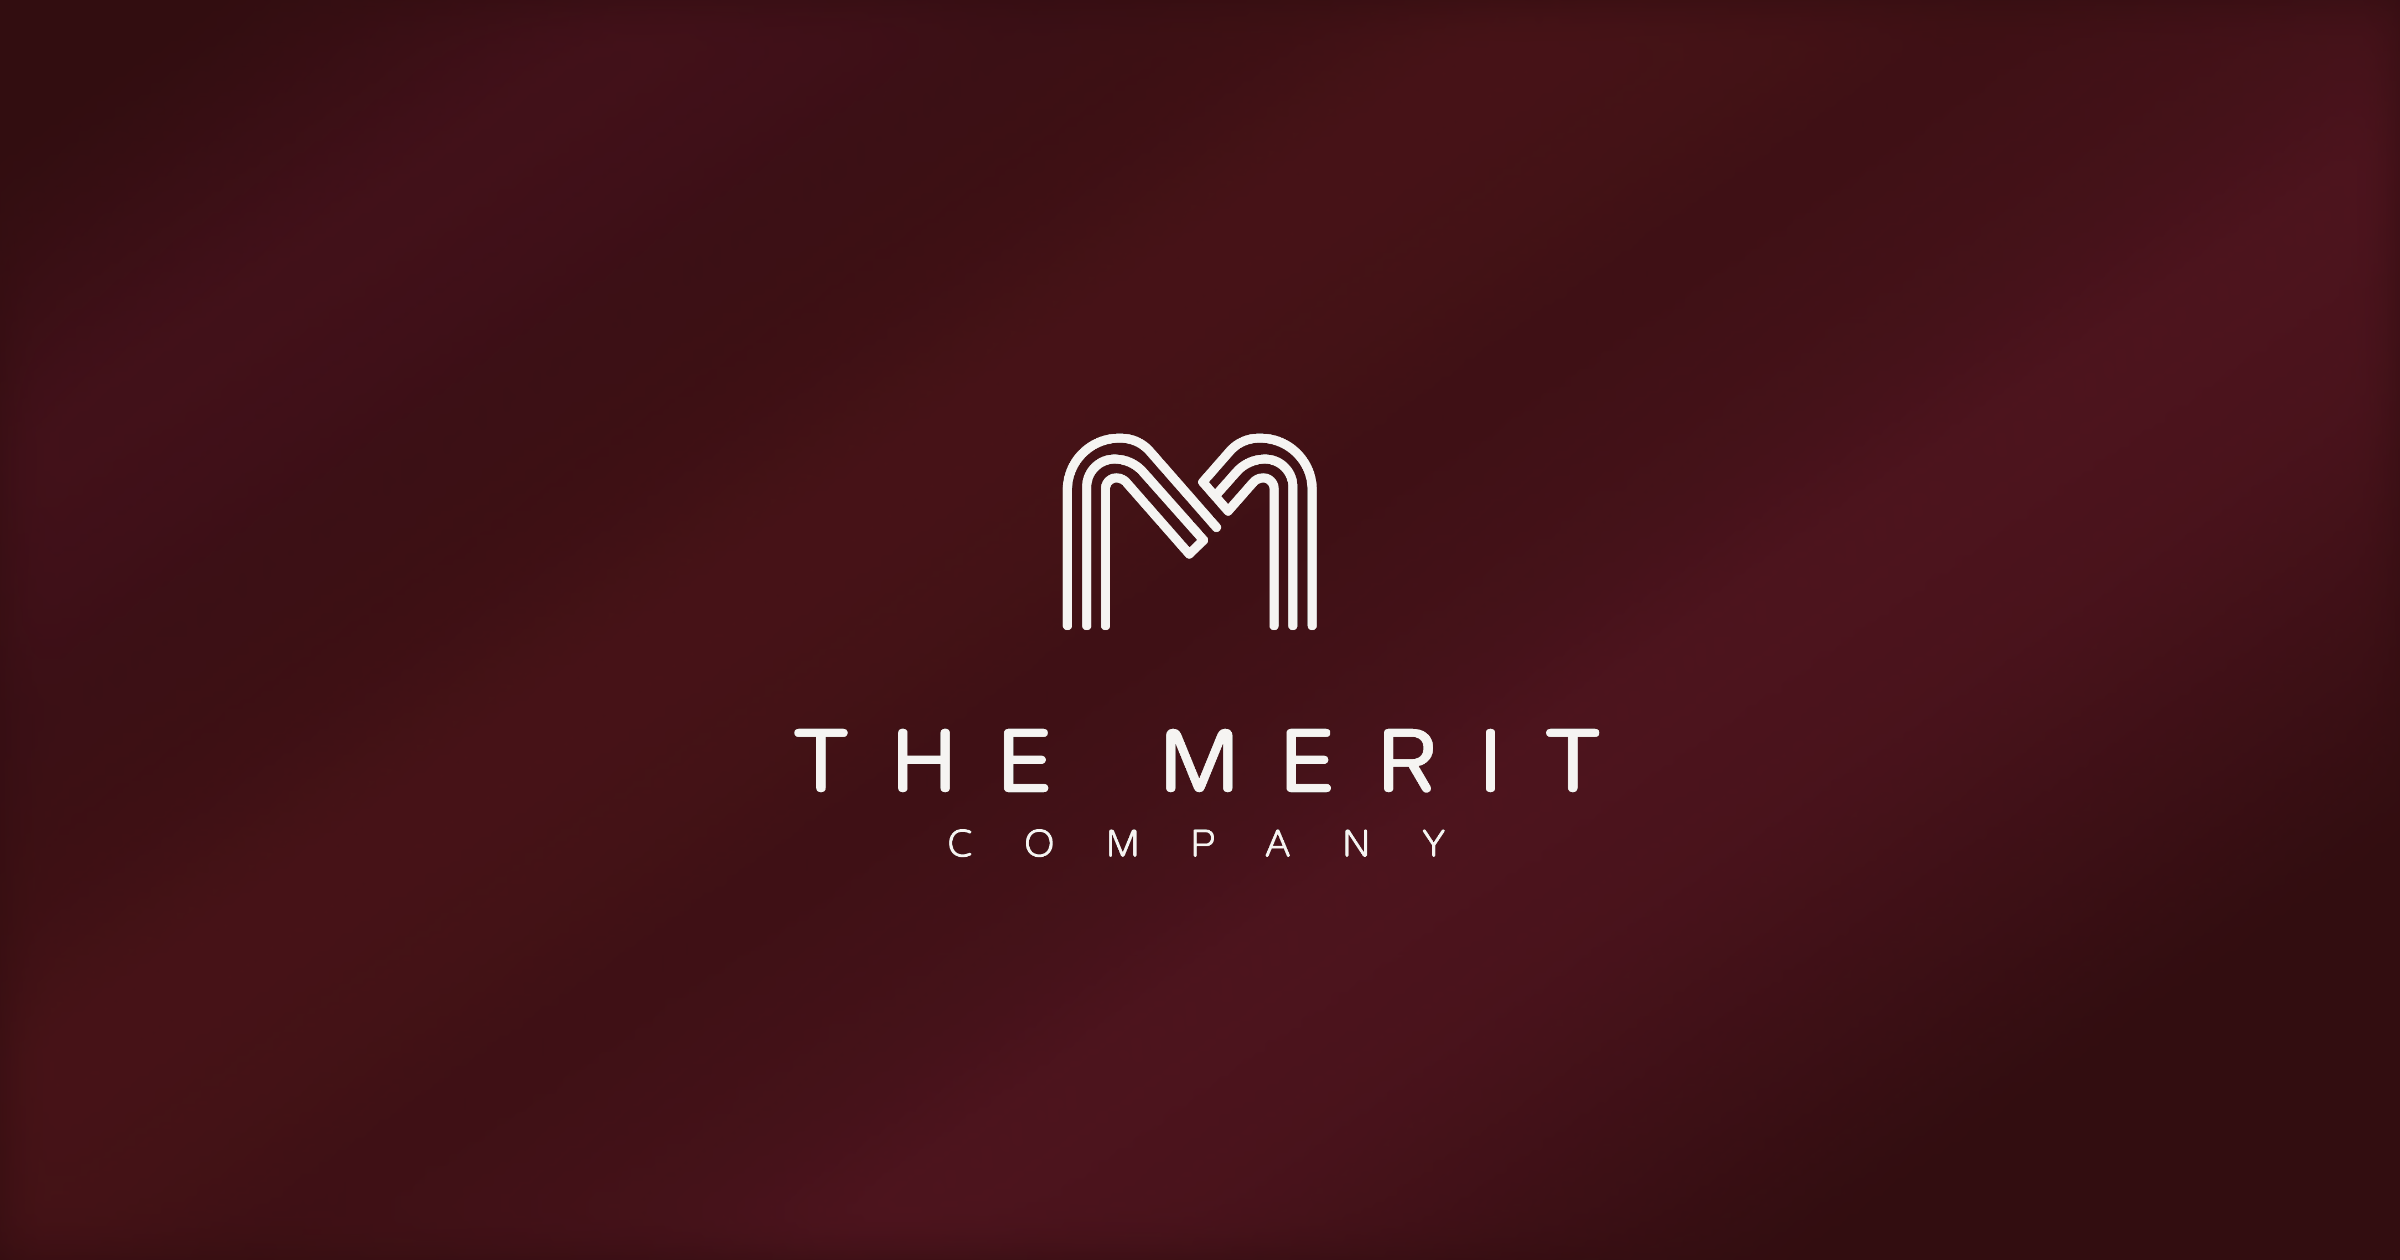
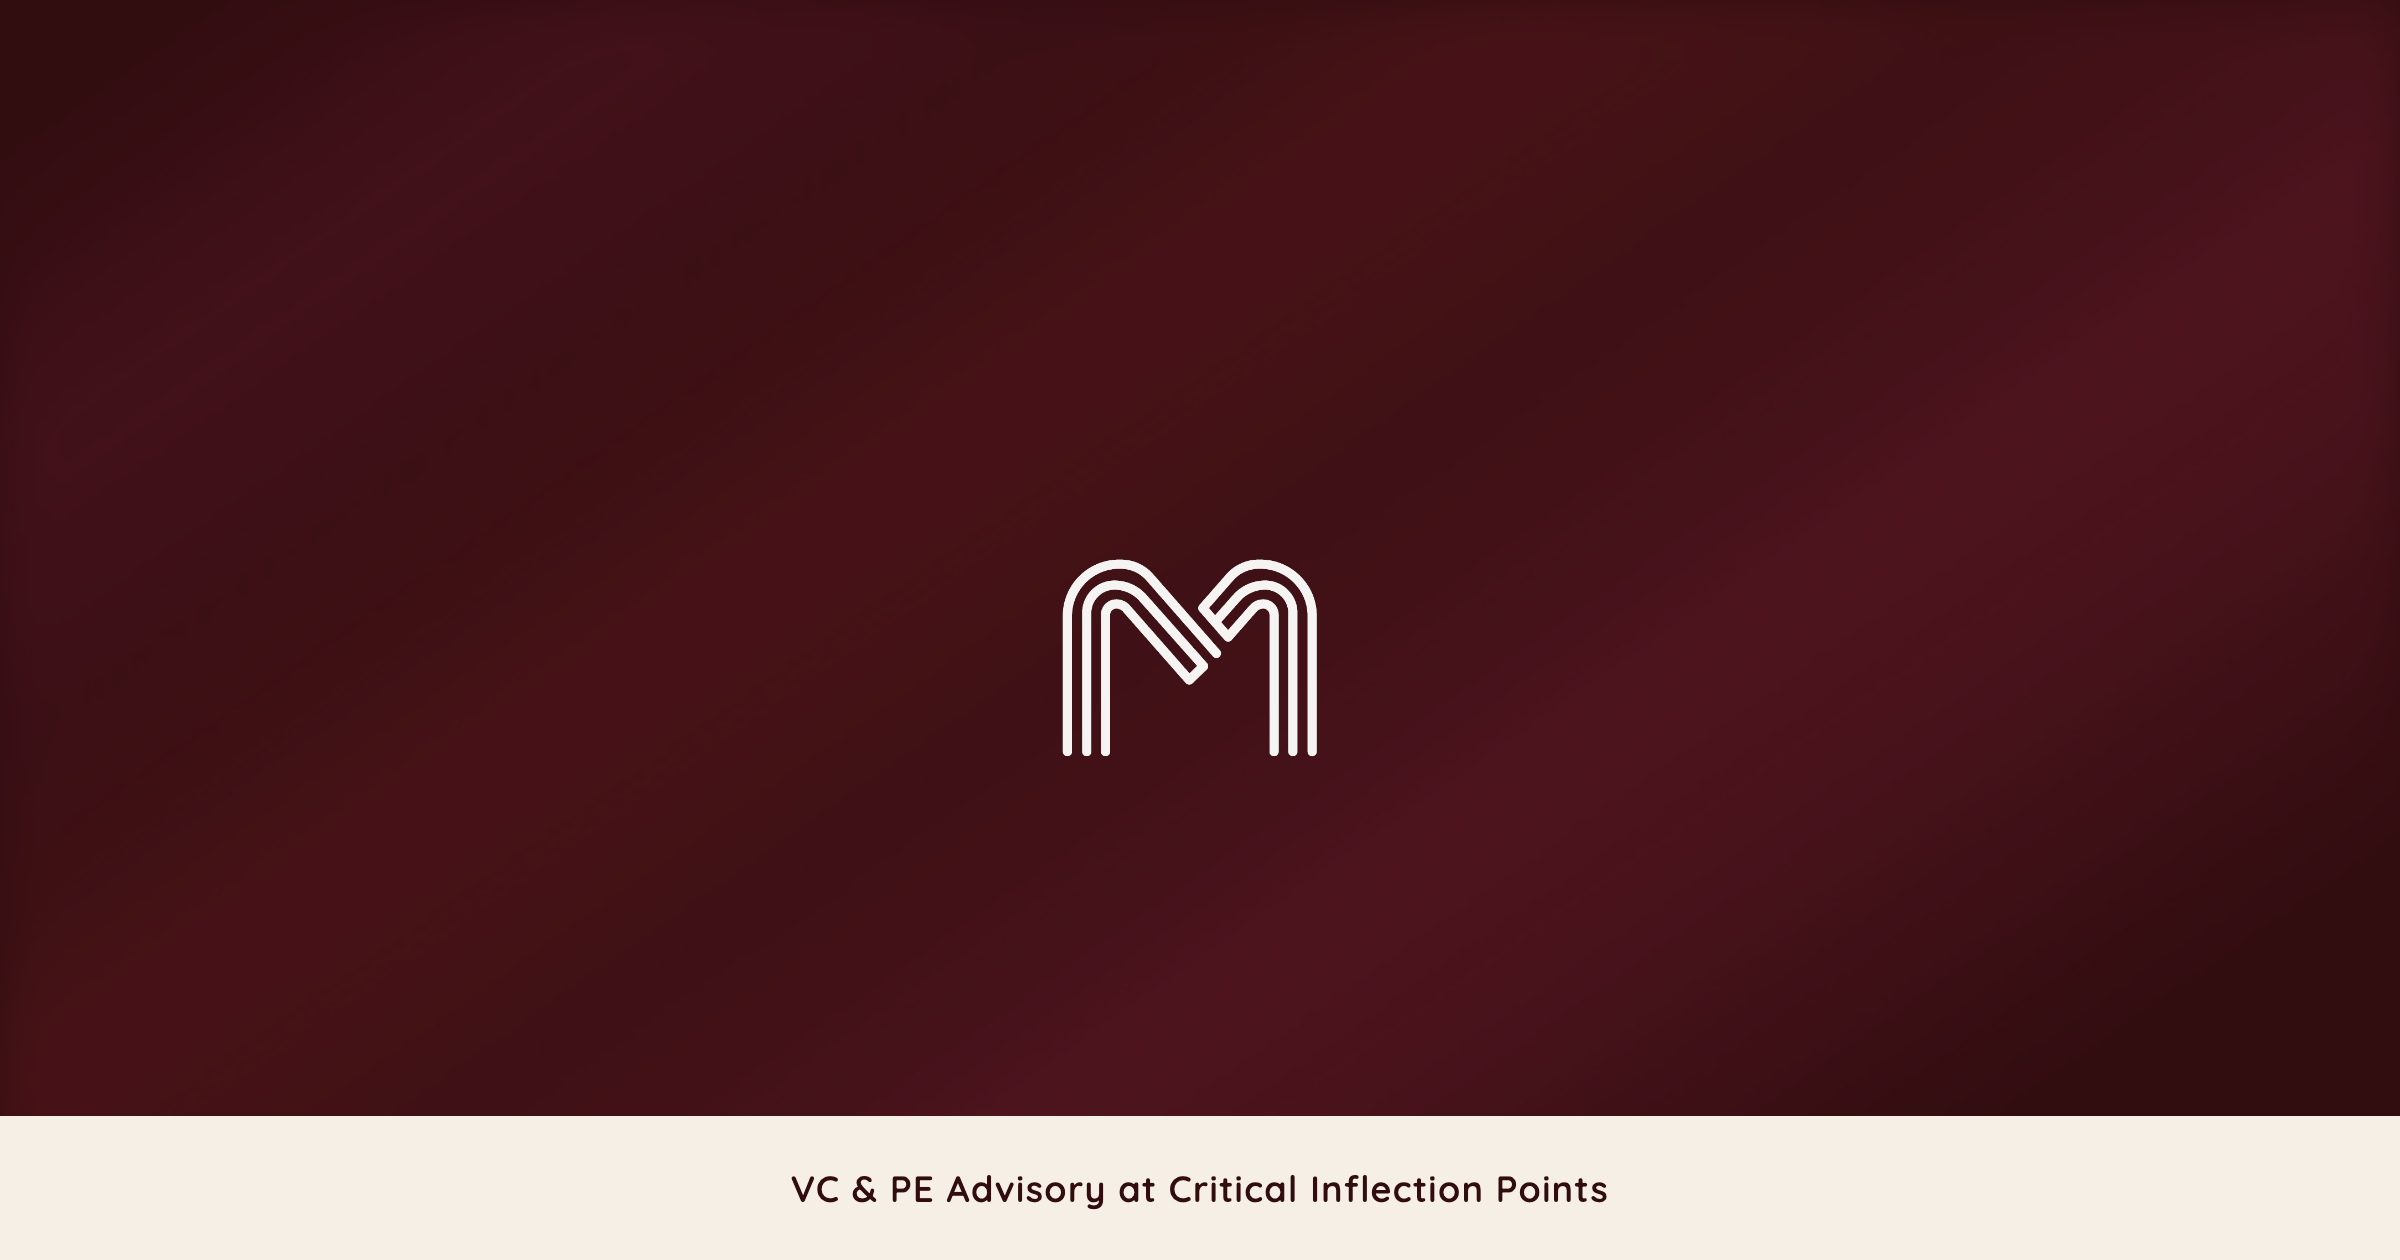
Add cream bar with tagline to OG image

diff --git a/og-thumbnail.html b/og-thumbnail.html
@@ -2,6 +2,8 @@
 <html>
 <head>
   <meta charset="UTF-8">
+  <link rel="preconnect" href="https://fonts.googleapis.com">
+  <link rel="stylesheet" href="https://fonts.googleapis.com/css2?family=Quicksand:wght@400;500;600&display=swap">
   <style>
     * { margin: 0; padding: 0; box-sizing: border-box; }
     html, body {
@@ -68,16 +70,24 @@
       background-position: -8px -17px;
       flex-shrink: 0;
     }
-    .logo-text-crop {
-      /* Text block: approx x:630–2110, y:80–720 in original
-         At scale 0.2767: x_start=174px, y_start=22px
-         width: (2110-630)*0.2767 = 410px, height: (720-80)*0.2767 = 177px */
-      width: 410px;
-      height: 120px;
-      background: url('brand_assets/mco-logo-transparent.png') no-repeat;
-      background-size: auto 220px;
-      background-position: -174px -55px;
-      flex-shrink: 0;
+    .cream-bar {
+      position: absolute;
+      bottom: 0;
+      left: 0;
+      right: 0;
+      height: 72px;
+      background: #F5EFE6;
+      display: flex;
+      align-items: center;
+      justify-content: center;
+      z-index: 3;
+    }
+    .cream-bar span {
+      font-family: 'Quicksand', sans-serif;
+      font-size: 18px;
+      font-weight: 600;
+      color: #320D10;
+      letter-spacing: 0.04em;
     }
   </style>
 </head>
@@ -86,7 +96,9 @@
     <div class="beams"></div>
     <div class="logo-wrap">
       <div class="m-mark"></div>
-      <div class="logo-text-crop"></div>
+    </div>
+    <div class="cream-bar">
+      <span>VC & PE Advisory at Critical Inflection Points</span>
     </div>
   </div>
 </body>
